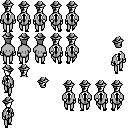
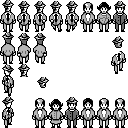
Add management for entities in a scene.

Changed region(s): [[0.25, 0.625, 1.0, 1.0], [0.625, 0.0, 1.0, 0.25], [0.375, 0.25, 0.625, 0.5]]

diff --git a/src/entities.js b/src/entities.js
@@ -1,11 +1,28 @@
 MAFIA.entities = {
-    player:{
-        animation: "player_idle_",
-        body: WIZARD.physics.createAABB(32, 55, 16, 8),
-        direction: "down",
-        lastAnimationAndDirection: "",
+    sortEntities: function(list){
+        list.sort(function(a, b){
+            var aa = Math.floor(a.body.y);
+            var bb = Math.floor(b.body.y);
+            if(aa == bb){
+                aa = Math.floor(a.body.x);
+                bb = Math.floor(b.body.x);
+            }
+            return aa - bb;
+        });
+    },
+    addEntity: function(entity, list){
+        list.push(entity);
+    },
+    removeEntity: function(entity, list){
+        list.splice(list.indexOf(entity), 1);
+    },
+    player: function(){ //change to function to create new instances
+        this.animation = "player_idle_";
+        this.body = WIZARD.physics.createAABB(32, 55, 16, 8);
+        this.direction = "down";
+        this.lastAnimationAndDirection = "";
 
-        update: function(wiz){
+        this.update = function(wiz){
             this.animation = "player_idle_";
             if(WIZARD.input.keyPressed(WIZARD.keys.A) || WIZARD.input.keyPressed(WIZARD.keys.LEFT)){
                 this.animation = "player_walk_";
@@ -29,16 +46,19 @@ MAFIA.entities = {
                 WIZARD.animation.reset(this.lastAnimationAndDirection);
             }
             this.lastAnimationAndDirection = this.animation + this.direction;
-        },
-        render: function(wiz){
+        };
+
+        this.render = function(wiz){
+            wiz.drawAABB(this.body, "blue");
             wiz.drawSprite("effects", this.body.x, this.body.y - 1, 0, 0);
             wiz.drawAnimation("player", this.animation + this.direction, this.body.x, this.body.y - 24);
-        }
+        };
     },
-    playerCar:{
-        body: WIZARD.physics.createAABB(16, 16, 85, 32),
+    playerCar: function(){
+        this.body = WIZARD.physics.createAABB(16, 16, 85, 32),
 
-        update: function(wiz){
+        this.update = function(wiz){
+
             if(WIZARD.input.keyPressed(WIZARD.keys.A) || WIZARD.input.keyPressed(WIZARD.keys.LEFT)){
                 this.body.x -= MAFIA.constants.playerCarSpeed;
             }else if(WIZARD.input.keyPressed(WIZARD.keys.D) || WIZARD.input.keyPressed(WIZARD.keys.RIGHT)){
@@ -48,9 +68,41 @@ MAFIA.entities = {
             }if(WIZARD.input.keyPressed(WIZARD.keys.S) || WIZARD.input.keyPressed(WIZARD.keys.DOWN)){
                 this.body.y += MAFIA.constants.playerCarSpeed;
             }
-        },
-        render: function(wiz){
+
+            if(this.body.x < 0) this.body.x = 0;
+            else if(this.body.x > 160 - 85) this.body.x = 160 - 85;
+            if(this.body.y < 0) this.body.y = 0;
+            else if(this.body.y > 144 - 32) this.body.y = 144 - 32;
+        };
+        this.render = function(wiz){
             wiz.drawSprite("cars", this.body.x, this.body.y, 0, 0);
-        }
+        };
+    },
+    propCar: function(x, y){
+        this.body = WIZARD.physics.createAABB(x, y, 85, 24),
+
+        this.update = function(wiz){
+
+        };
+        this.render = function(wiz){
+            wiz.drawSprite("cars", this.body.x, this.body.y - 8, 0, 0);
+            wiz.drawAABB(this.body, "#00ff00");
+        };
+    },
+    enemy: function(x, y){
+        this.animation = "enemy_idle_";
+        this.body = WIZARD.physics.createAABB(x, y, 16, 8);
+        this.direction = "down";
+        this.lastAnimationAndDirection = "";
+
+        this.update = function(wiz){
+            this.animation = "enemy_idle_";
+            this.lastAnimationAndDirection = this.animation + this.direction;
+        };
+
+        this.render = function(wiz){
+            wiz.drawSprite("effects", this.body.x, this.body.y - 1, 0, 0);
+            wiz.drawAnimation("player", this.animation + this.direction, this.body.x, this.body.y - 24);
+        };
     }
 };

diff --git a/src/scenes.js b/src/scenes.js
@@ -47,23 +47,40 @@ MAFIA.scenes = {
         }
     },
     walk: {
-        carBody: WIZARD.physics.createAABB(16, 16, 85, 32),
+        entities: [],
 
         onEnter: function(wiz){
             MAFIA.transitionEffects.fadeBrightToNormal();
+            MAFIA.entities.addEntity(new MAFIA.entities.player(), this.entities);
+            for(var i = 0; i <10; i++){
+                MAFIA.entities.addEntity(new MAFIA.entities.enemy(Math.random() * 160, Math.random() * 144), this.entities);
+            }
+            for(var i = 0; i <3; i++){
+                MAFIA.entities.addEntity(new MAFIA.entities.propCar(Math.random() * 160, Math.random() * 144), this.entities);
+            }
         },
         update: function(wiz){
-            MAFIA.entities.player.update(wiz);
+            for(var i = 0; i < this.entities.length; i++){
+                this.entities[i].update(wiz);
+            }
 
             if(WIZARD.input.keyJustPressed(WIZARD.keys.SPACEBAR)){
                 MAFIA.scenes.setCurrent(MAFIA.scenes.car, 500);
             }
         },
         render: function(wiz){
-            wiz.drawSprite("cars", this.carBody.x, this.carBody.y, 0, 0);
-            wiz.drawSprite("cars", 32, 64, 0, 1);
-            wiz.drawSprite("cars", 48, 96, 0, 2);
-            MAFIA.entities.player.render(wiz);
+            for(var x = 0; x < 10; x++){
+                for(var y = 0; y < 10; y++) {
+                    wiz.drawSprite("tiles", x * 16, y * 16, 0, 1);
+                }
+            }
+
+            MAFIA.entities.sortEntities(this.entities);
+            for(var i = 0; i < this.entities.length; i++){
+                this.entities[i].render(wiz);
+            }
+
+
             // if(WIZARD.physics.intersects(this.playerBody, this.carBody)){
             //     wiz.drawAABB(this.playerBody, "#ff0000");
             //     wiz.drawAABB(this.carBody, "#ff0000");
@@ -79,18 +96,25 @@ MAFIA.scenes = {
         }
     },
     car: {
+        entities: [],
 
         onEnter: function(wiz){
             MAFIA.transitionEffects.fadeBrightToNormal();
+            MAFIA.entities.addEntity(new MAFIA.entities.playerCar(), this.entities);
         },
         update: function(wiz){
-            MAFIA.entities.playerCar.update(wiz);
+            for(var i = 0; i < this.entities.length; i++){
+                this.entities[i].update(wiz);
+            }
             if(WIZARD.input.keyJustPressed(WIZARD.keys.SPACEBAR)){
                 MAFIA.scenes.setCurrent(MAFIA.scenes.walk, 500);
             }
         },
         render: function(wiz){
-            MAFIA.entities.playerCar.render(wiz);
+            MAFIA.entities.sortEntities(this.entities);
+            for(var i = 0; i < this.entities.length; i++){
+                this.entities[i].render(wiz);
+            }
             // if(WIZARD.physics.intersects(this.playerBody, this.carBody)){
             //     wiz.drawAABB(this.playerBody, "#ff0000");
             //     wiz.drawAABB(this.carBody, "#ff0000");
@@ -99,7 +123,7 @@ MAFIA.scenes = {
             //     wiz.drawAABB(this.carBody, "#00ff00");
             // }
 
-            MAFIA.scrollingText.show("WILL THIS WORK?", 0 , 0, wiz);
+            MAFIA.scrollingText.show("GOTTA GO FAST!!1!", 0 , 0, wiz);
         },
         onExit: function(wiz){
             MAFIA.transitionEffects.fadeNormalToBright();

diff --git a/src/main.js b/src/main.js
@@ -4,12 +4,13 @@ wizard({
     scale: 3,
     pixelArt: true,
     create: function(){
-        this.loadImages("player.png", "cars.png", "font.png", "effects.png");
+        this.loadImages("player.png", "cars.png", "font.png", "effects.png", "tiles.png");
         this.loadSounds("talk.wav", "bootup.mp3");
         WIZARD.spritesheet.create("player", 16, 32);
         WIZARD.spritesheet.create("cars", 96, 32);
         WIZARD.spritesheet.create("font", 8, 8);
         WIZARD.spritesheet.create("effects", 16, 16);
+        WIZARD.spritesheet.create("tiles", 16, 16);
         WIZARD.animation.createFrameAnimation("player_idle_down", [[0,0]], 100);
         WIZARD.animation.createFrameAnimation("player_walk_down", [[1,0],[0,0],[2,0],[0,0]], 300);
         WIZARD.animation.createFrameAnimation("player_idle_up", [[0,1]], 100);
@@ -19,8 +20,10 @@ wizard({
         WIZARD.animation.createFrameAnimation("player_idle_right", [[0,3]], 100);
         WIZARD.animation.createFrameAnimation("player_walk_right", [[0,3]], 100);
 
+        WIZARD.animation.createFrameAnimation("enemy_idle_down", [[7,0]], 100);
+
         MAFIA.state.load();
-        MAFIA.scenes.setCurrent(MAFIA.scenes.splash, 0, this);
+        MAFIA.scenes.setCurrent(MAFIA.scenes.walk, 0, this);
     },
 
     update: function(){

diff --git a/lib/wizard.js b/lib/wizard.js
@@ -321,8 +321,6 @@ WIZARD.core = function(data){
         }
     };
 
-
-
     wiz.playSound = function(soundName, loop){
         var sound = WIZARD.sounds[soundName];
         var source = wiz.actx.createBufferSource();

diff --git a/src/game.js b/src/game.js
@@ -115,3 +115,8 @@ MAFIA.scrollingText = {
         if(WIZARD.timers["scrollingText"] != null) delete WIZARD.timers["scrollingText"];
     }
 };
+
+MAFIA.utils = {
+
+
+};
